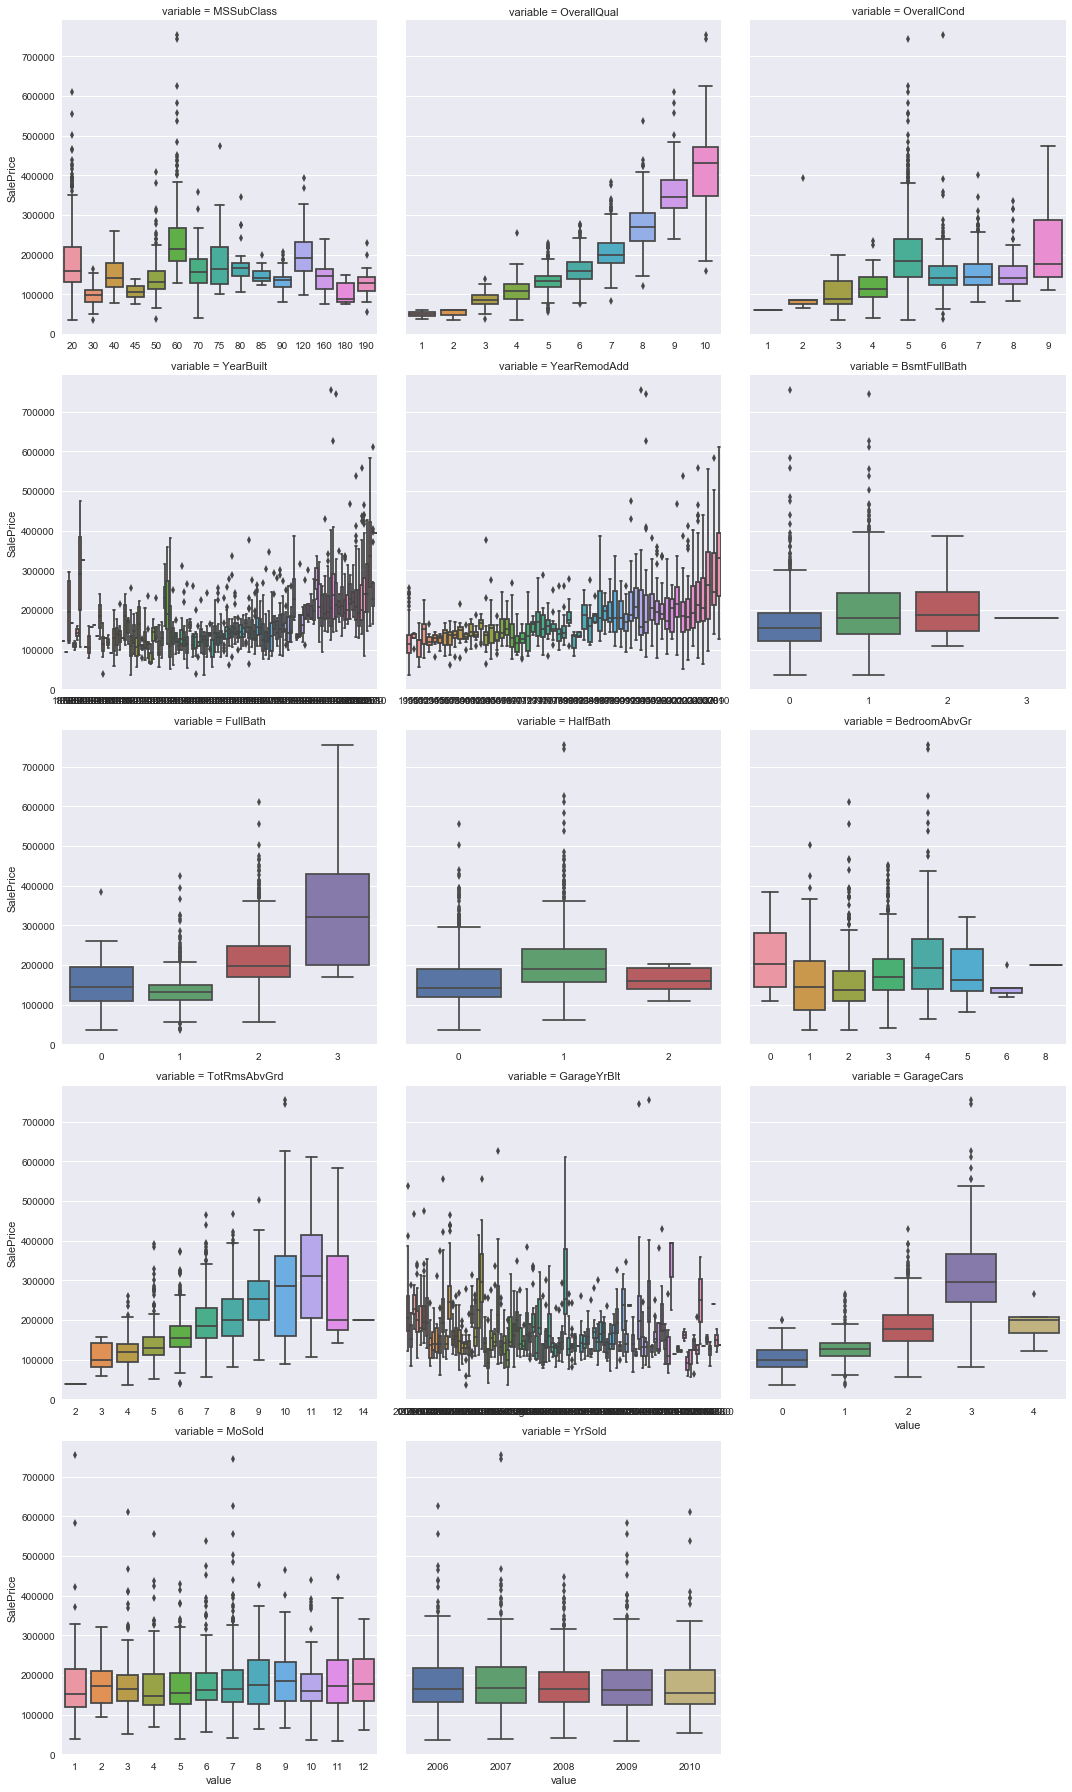
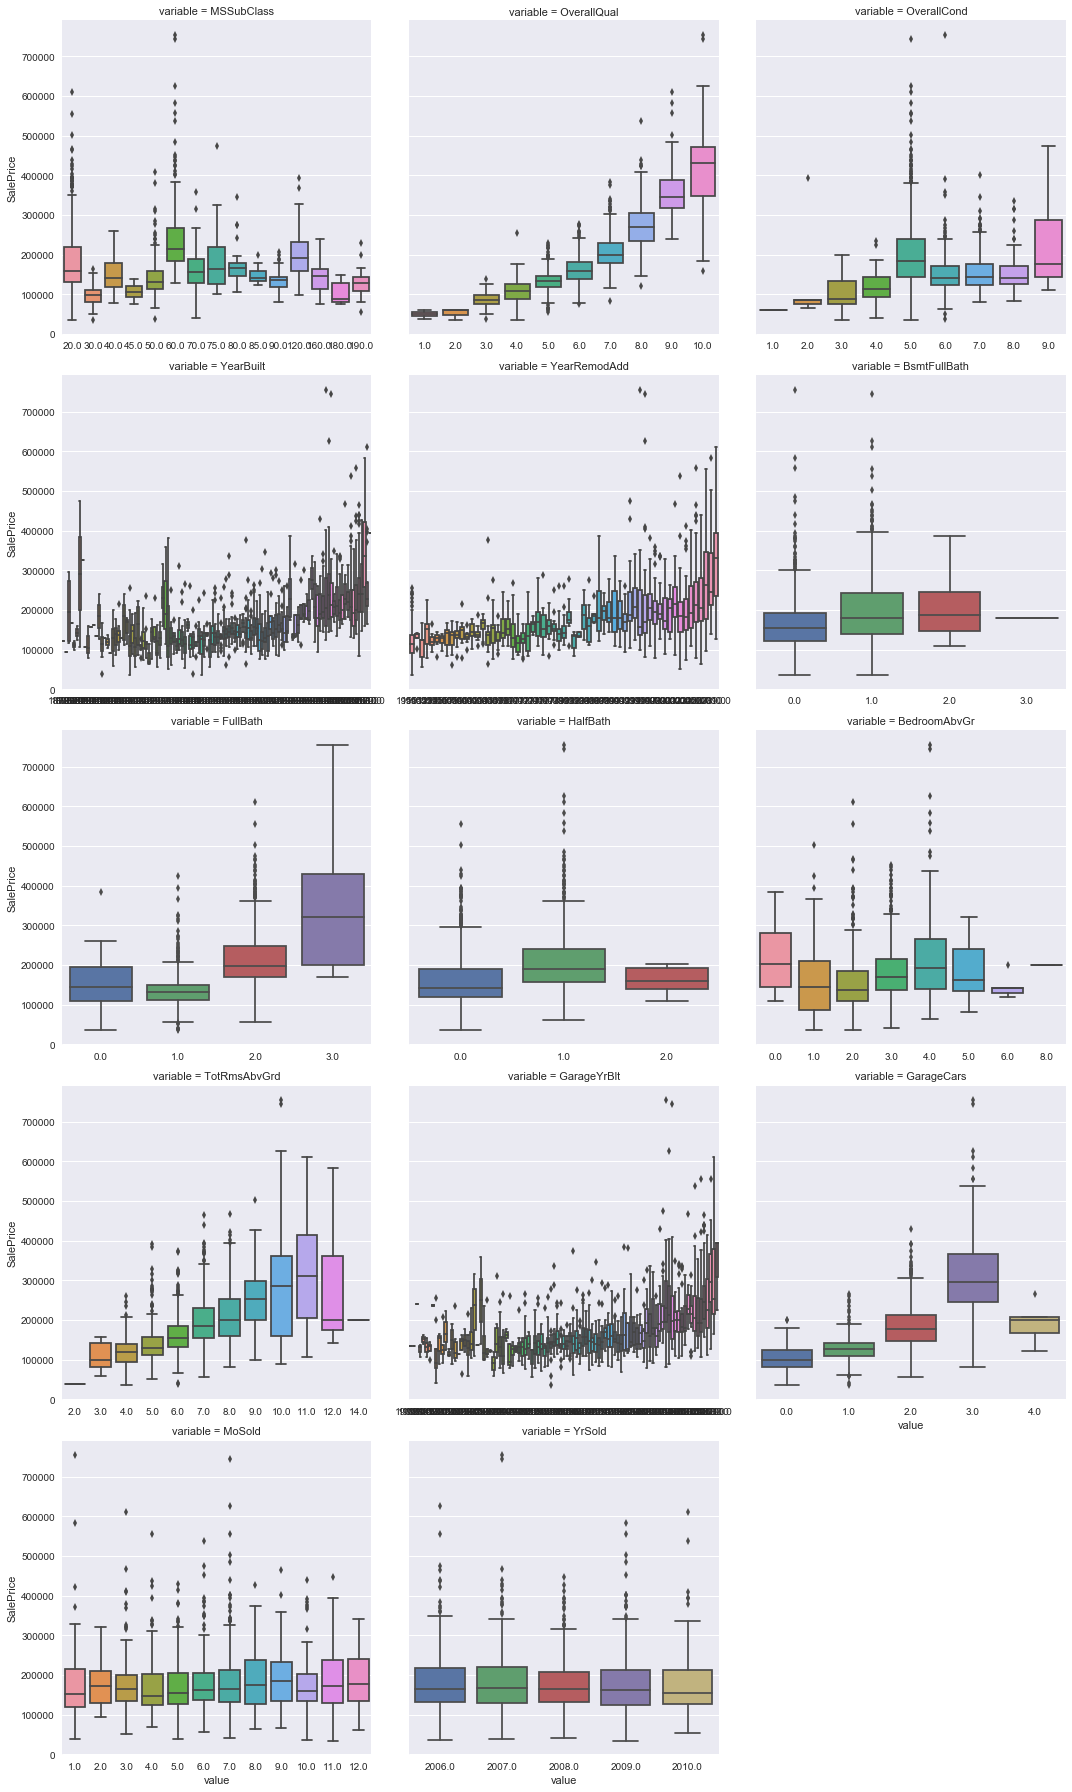
update with visualization

diff --git a/README.md b/README.md
@@ -88,9 +88,9 @@ Viewing whether there are some categorical features linear to the label, like he
 
 
 ```python
-train_show = train
+train_show = train.copy()
 for c in categorical_feats:
-    train_show[c] = train[c].fillna("Mising")
+    train_show[c] = train_show[c].fillna("Missing")
         
 def boxplot(x,y,**kwargs):                                                       
     sns.boxplot(x=x,y=y)
@@ -113,7 +113,7 @@ Viewing whether there are some bizzarre relationship between numeric features an
 # regplot: plot+linear regression
 def regplot(x,y,**kwargs):
     sns.regplot(x=x,y=y)
-        
+
 f = pd.melt(train_show, id_vars=['SalePrice'],value_vars=numeric_feats)
 g = sns.FacetGrid(f,col='variable',col_wrap=3,sharex=False,sharey=False,size=5)
 g = g.map(regplot,"value","SalePrice")
@@ -127,10 +127,10 @@ Double check on some suspect features
 
 
 ```python
-nomial_feats=['MSSubClass','OverallQual','OverallCond','YearBuilt','YearRemodAdd','BsmtFullBath','FullBath','HalfBath',
-             'BedroomAbvGr','TotRmsAbvGrd','GarageYrBlt','GarageCars','MoSold','YrSold']
-for c in nomial_feats:
-    train_show[c] = train_show[c].fillna("Missing")
+#nomial_feats=['MSSubClass','OverallQual','OverallCond','YearBuilt','YearRemodAdd','BsmtFullBath','FullBath','HalfBath',
+#             'BedroomAbvGr','TotRmsAbvGrd','GarageYrBlt','GarageCars','MoSold','YrSold']
+#for c in nomial_feats:
+#    train_show[c] = train_show[c].fillna("Missing")
 
 def boxplot(x,y,**kwargs):
     sns.boxplot(x=x,y=y)
@@ -255,39 +255,40 @@ features.isnull().sum()[features.isnull().sum()>0].sort_values(ascending=False)
 
 
 
-    PoolQC          1456
-    MiscFeature     1408
-    Alley           1352
-    Fence           1169
-    FireplaceQu      730
+    PoolQC          2908
+    MiscFeature     2812
+    Alley           2719
+    Fence           2346
+    FireplaceQu     1420
     LotFrontage      486
-    GarageQual        78
-    GarageCond        78
-    GarageFinish      78
-    GarageYrBlt       78
-    GarageType        76
-    BsmtCond          45
-    BsmtQual          44
-    BsmtExposure      44
-    BsmtFinType1      42
-    BsmtFinType2      42
+    GarageQual       159
+    GarageCond       159
+    GarageFinish     159
+    GarageYrBlt      159
+    GarageType       157
+    BsmtExposure      82
+    BsmtCond          82
+    BsmtQual          81
+    BsmtFinType2      80
+    BsmtFinType1      79
+    MasVnrType        24
     MasVnrArea        23
-    MasVnrType        16
     MSZoning           4
     BsmtFullBath       2
     BsmtHalfBath       2
     Utilities          2
     Functional         2
+    Electrical         1
     BsmtUnfSF          1
     Exterior1st        1
     Exterior2nd        1
     TotalBsmtSF        1
+    GarageArea         1
     GarageCars         1
     BsmtFinSF2         1
     BsmtFinSF1         1
     KitchenQual        1
     SaleType           1
-    GarageArea         1
     dtype: int64
 
 
@@ -558,7 +559,7 @@ features = pd.get_dummies(features,columns=category_feats)
 print(features.shape)
 ```
 
-    (2917, 358)
+    (2917, 250)
     
 
 ## new train and test 
@@ -692,12 +693,12 @@ df_0.loc[[a.find("_")==-1 for a in df_0["columns"]]]
       <td>GarageQual</td>
     </tr>
     <tr>
-      <th>33</th>
+      <th>34</th>
       <td>-0.0</td>
       <td>LandSlope</td>
     </tr>
     <tr>
-      <th>38</th>
+      <th>39</th>
       <td>0.0</td>
       <td>MasVnrArea</td>
     </tr>
@@ -774,12 +775,12 @@ df_0.loc[[a.find("_")==-1 for a in df_0["columns"]]]
       <td>GarageQual</td>
     </tr>
     <tr>
-      <th>33</th>
+      <th>34</th>
       <td>-0.0</td>
       <td>LandSlope</td>
     </tr>
     <tr>
-      <th>38</th>
+      <th>39</th>
       <td>0.0</td>
       <td>MasVnrArea</td>
     </tr>
@@ -803,12 +804,12 @@ KRR,best_param = param_select(KernelRidge( kernel='polynomial'),param)
 print(best_param)
 ```
 
-    {'alpha': 0.15998999999999999, 'coef0': 1.8421052631578947, 'degree': 2.0}
+    {'alpha': 0.051790000000000003, 'coef0': -4.4736842105263159, 'degree': 1.0}
     
 
 
 ```python
-KRR = KernelRidge(alpha=0.16, kernel='polynomial', degree=2, coef0=1.8421)
+KRR = KernelRidge(alpha=0.05179, kernel='polynomial', degree=1, coef0=-4.47368)
 ```
 
 ### Gradient Boosting Regression
@@ -857,7 +858,7 @@ df_0.loc[[a.find("_")==-1 for a in df_0["columns"]]]
   </thead>
   <tbody>
     <tr>
-      <th>44</th>
+      <th>45</th>
       <td>0.0</td>
       <td>PoolArea</td>
     </tr>
@@ -919,17 +920,27 @@ df_0.loc[[a.find("_")==-1 for a in df_0["columns"]]]
       <td>3SsnPorch</td>
     </tr>
     <tr>
-      <th>10</th>
+      <th>8</th>
       <td>0.0</td>
-      <td>BsmtFinType2</td>
+      <td>BsmtFinSF2</td>
     </tr>
     <tr>
-      <th>37</th>
+      <th>12</th>
+      <td>0.0</td>
+      <td>BsmtHalfBath</td>
+    </tr>
+    <tr>
+      <th>34</th>
+      <td>0.0</td>
+      <td>LandSlope</td>
+    </tr>
+    <tr>
+      <th>38</th>
       <td>0.0</td>
       <td>LowQualFinSF</td>
     </tr>
     <tr>
-      <th>44</th>
+      <th>45</th>
       <td>0.0</td>
       <td>PoolArea</td>
     </tr>
@@ -986,12 +997,7 @@ df_0.loc[[a.find("_")==-1 for a in df_0["columns"]]]
   </thead>
   <tbody>
     <tr>
-      <th>37</th>
-      <td>0</td>
-      <td>LowQualFinSF</td>
-    </tr>
-    <tr>
-      <th>44</th>
+      <th>45</th>
       <td>0</td>
       <td>PoolArea</td>
     </tr>
@@ -1010,7 +1016,7 @@ print("\nLasso score: {:.4f} +/- {:.4f}\n".format(score.mean(), score.std()))
 ```
 
     
-    Lasso score: 0.1102 +/- 0.0063
+    Lasso score: 0.1101 +/- 0.0069
     
     
 
@@ -1020,7 +1026,7 @@ score = rmse_cv(ENet)
 print("ElasticNet score: {:.4f} +/- {:.4f}\n".format(score.mean(), score.std()))
 ```
 
-    ElasticNet score: 0.1102 +/- 0.0063
+    ElasticNet score: 0.1101 +/- 0.0069
     
     
 
@@ -1030,7 +1036,7 @@ score = rmse_cv(KRR)
 print("Kernel Ridge score: {:.4f} +/- {:.4f}\n".format(score.mean(), score.std()))
 ```
 
-    Kernel Ridge score: 0.1113 +/- 0.0059
+    Kernel Ridge score: 0.1124 +/- 0.0066
     
     
 
@@ -1040,7 +1046,7 @@ score = rmse_cv(GBoost)
 print("Gradient Boosting score: {:.4f} +/- {:.4f}\n".format(score.mean(), score.std()))
 ```
 
-    Gradient Boosting score: 0.1164 +/- 0.0078
+    Gradient Boosting score: 0.1178 +/- 0.0077
     
     
 
@@ -1050,7 +1056,7 @@ score = rmse_cv(model_xgb)
 print("Xgboost score: {:.4f} +/- {:.4f}\n".format(score.mean(), score.std()))
 ```
 
-    Xgboost score: 0.1174 +/- 0.0066
+    Xgboost score: 0.1157 +/- 0.0066
     
     
 
@@ -1060,7 +1066,7 @@ score = rmse_cv(model_lgb)
 print("LGBM score: {:.4f} +/- {:.4f}\n" .format(score.mean(), score.std()))
 ```
 
-    LGBM score: 0.1152 +/- 0.0059
+    LGBM score: 0.1159 +/- 0.0055
     
     
 
@@ -1132,13 +1138,12 @@ class StuckingModels(BaseEstimator, RegressorMixin, TransformerMixin):
 
 
 ```python
-AveragedModels = AveragingModels(models=(lasso,ENet,KRR,GBoost,model_xgb,model_lgb),weights=(0.3,0.1,0.15,0.15,0.15,0.15))
+AveragedModels = AveragingModels(models=(lasso,ENet,KRR,GBoost,model_xgb,model_lgb),weights=(0.4,0.1,0.15,0.05,0.15,0.15))
 score = rmse_cv(AveragedModels)
 print(" Averaged base models score:{:.4f} +/- {:.4f}".format(score.mean(),score.std()))
-# score:0.1080 +/- 0.0062 for weights=(0.3,0.1,0.15,0.15,0.15,0.15)
 ```
 
-     Averaged base models score:0.1080 +/- 0.0062
+     Averaged base models score:0.1084 +/- 0.0064
     
 
 ### Stucked base models score
@@ -1150,7 +1155,7 @@ score = rmse_cv(StuckedModels)
 print(" Stucked base models score:{:.4f} +/- {:.4f}".format(score.mean(),score.std()))
 ```
 
-     Stucked base models score:0.1079 +/- 0.0064
+     Stucked base models score:0.1079 +/- 0.0067
     
 
 # Prediction
